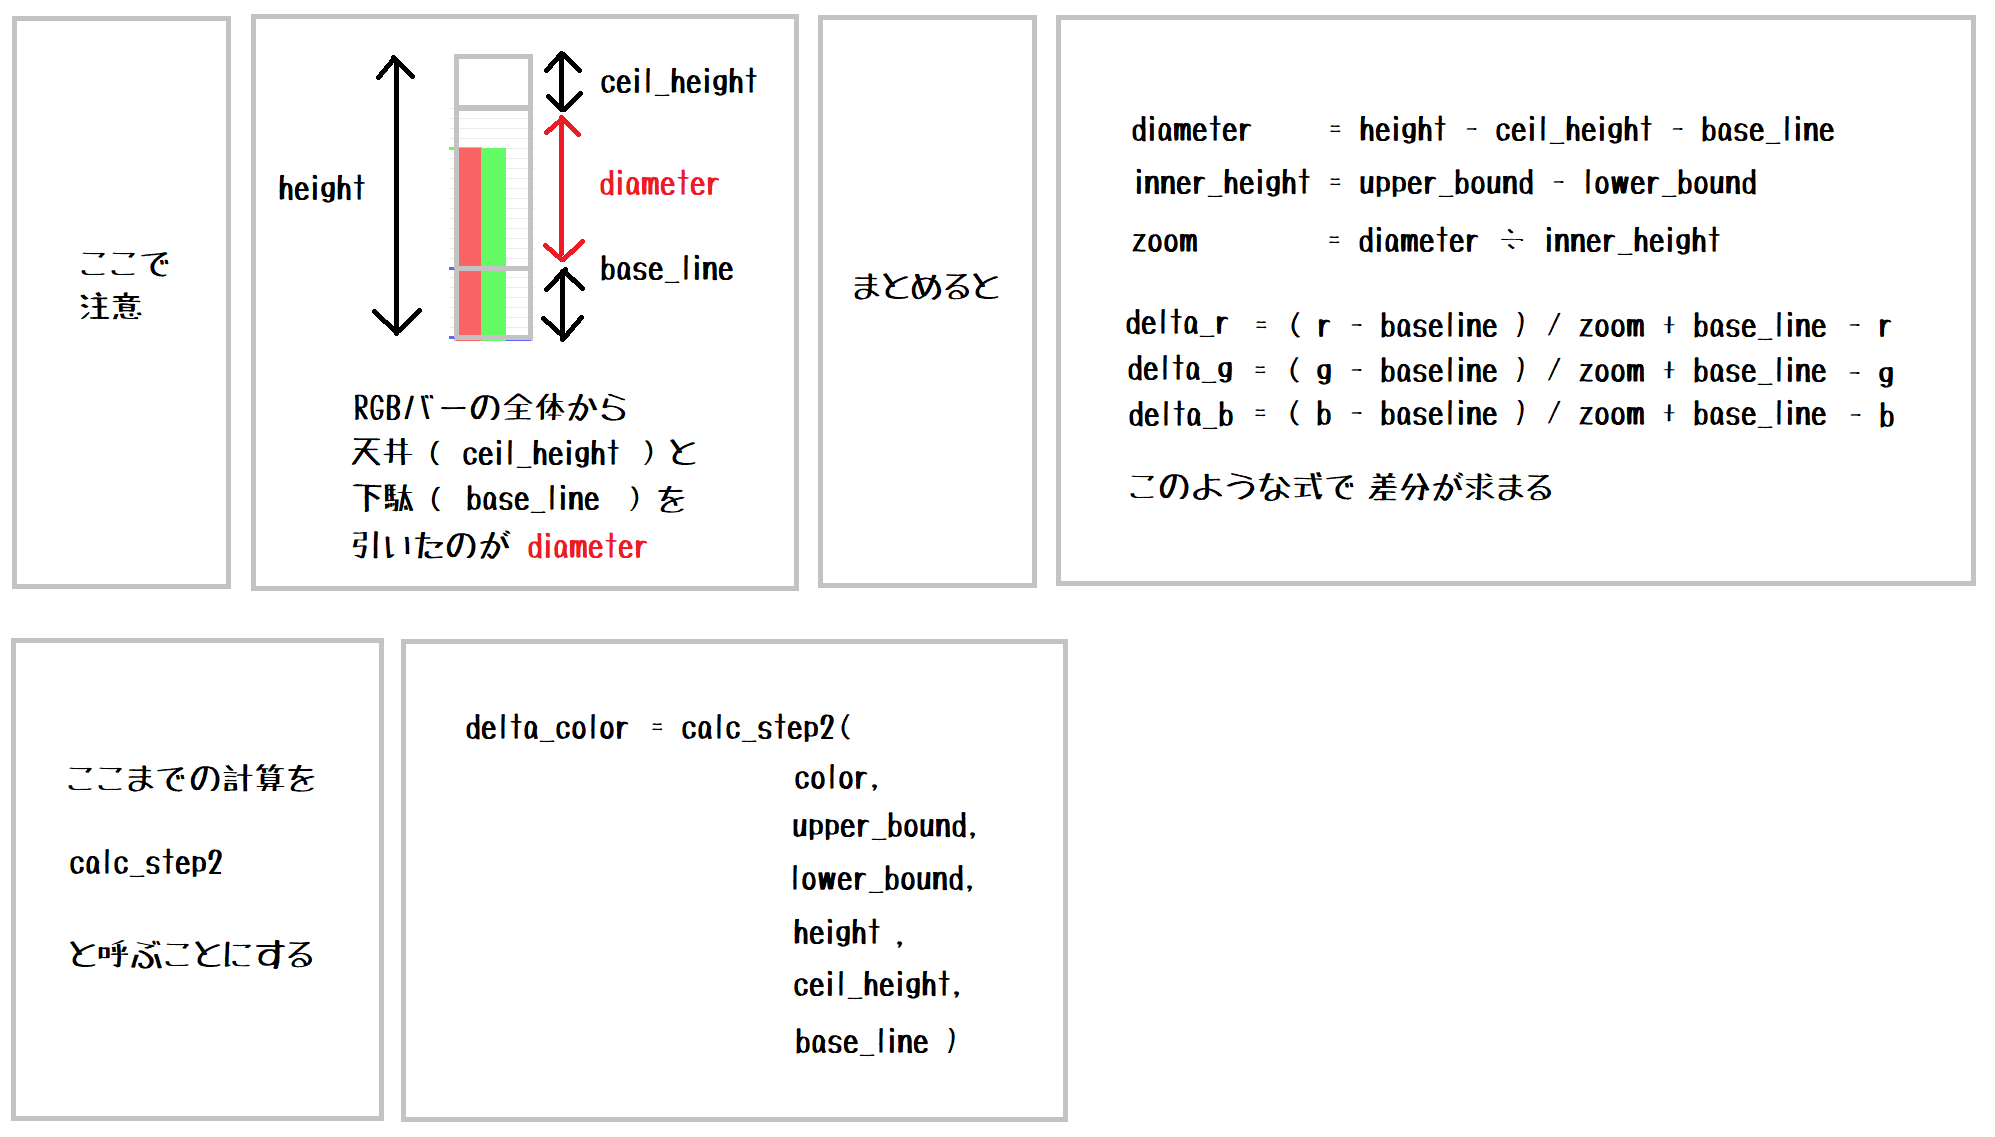
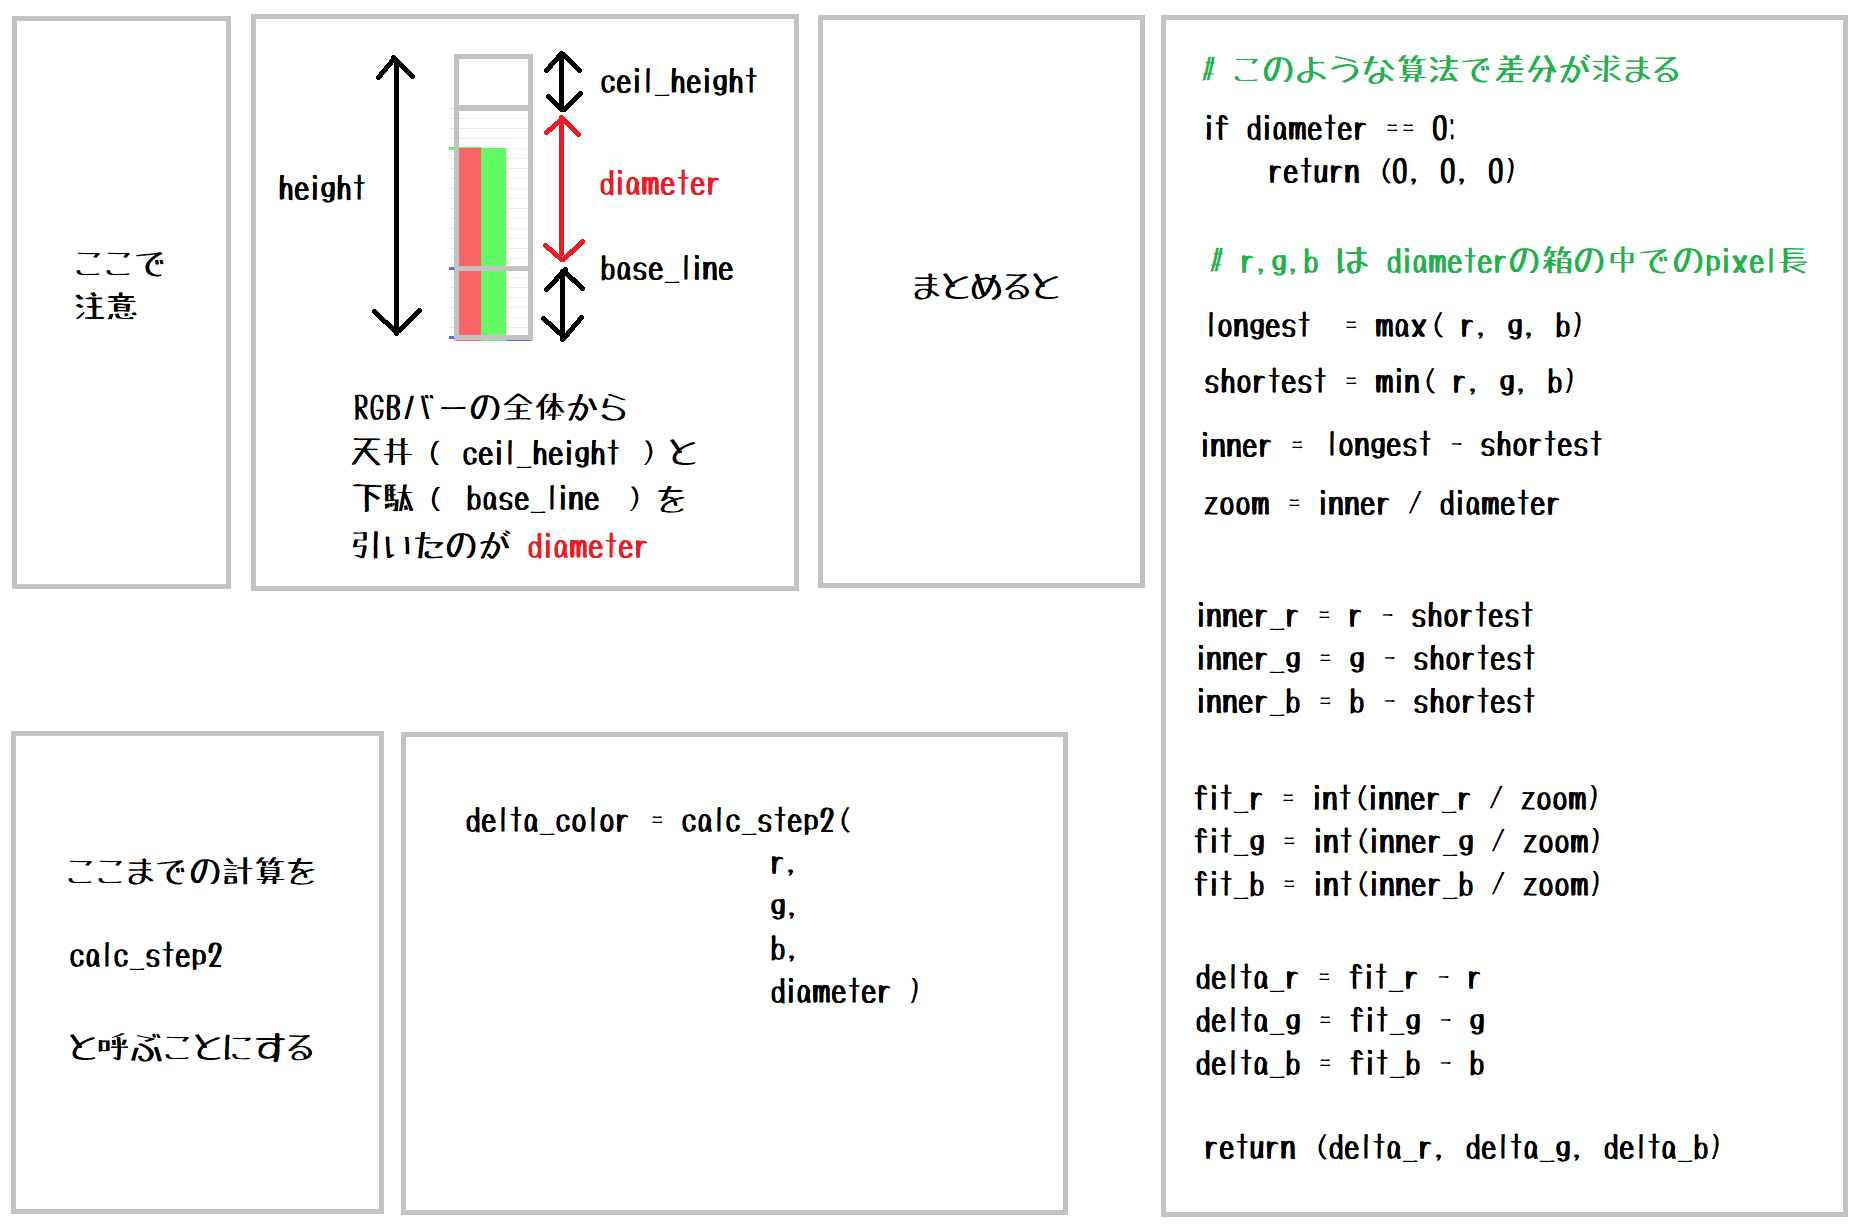
書き方調整

diff --git a/c_step13/color_calc.py b/c_step13/color_calc.py
@@ -12,31 +12,35 @@ def calc_step1(theta):
     return (red_rate, green_rate, blue_rate)
 
 
-def calc_step2(step1_3bars_height, diameter):
-    """フィットしたときの差分"""
-    longest_bar_height = max(
-        step1_3bars_height[0], step1_3bars_height[1], step1_3bars_height[2])
-    shortest_bar_height = min(
-        step1_3bars_height[0], step1_3bars_height[1], step1_3bars_height[2])
-    inner_height = longest_bar_height - shortest_bar_height
+def calc_step2(n3bars_h, diameter):
+    """フィットしたときの差分
+    n3bars_h : (int,int,int)
+        ２段目の箱の中の３本のバーの縦幅
+    diameter : int
+        ２段目の箱の縦幅
+    """
 
     if diameter == 0:
         return (0, 0, 0)
 
-    zoom = inner_height / diameter
-    print(f"zoom={zoom} inner_height={inner_height} diameter={diameter}")
+    longest = max(n3bars_h[0], n3bars_h[1], n3bars_h[2])
+    shortest = min(n3bars_h[0], n3bars_h[1], n3bars_h[2])
+    inner = longest - shortest
 
-    inner_r = step1_3bars_height[0] - shortest_bar_height
-    inner_g = step1_3bars_height[1] - shortest_bar_height
-    inner_b = step1_3bars_height[2] - shortest_bar_height
+    zoom = inner / diameter
+    # print(f"zoom={zoom} inner={inner} diameter={diameter}")
+
+    inner_r = n3bars_h[0] - shortest
+    inner_g = n3bars_h[1] - shortest
+    inner_b = n3bars_h[2] - shortest
 
     fit_r = int(inner_r / zoom)
     fit_g = int(inner_g / zoom)
     fit_b = int(inner_b / zoom)
 
-    r_bar_delta = fit_r - step1_3bars_height[0]
-    g_bar_delta = fit_g - step1_3bars_height[1]
-    b_bar_delta = fit_b - step1_3bars_height[2]
+    r_bar_delta = fit_r - n3bars_h[0]
+    g_bar_delta = fit_g - n3bars_h[1]
+    b_bar_delta = fit_b - n3bars_h[2]
 
     return (r_bar_delta, g_bar_delta, b_bar_delta)
 
